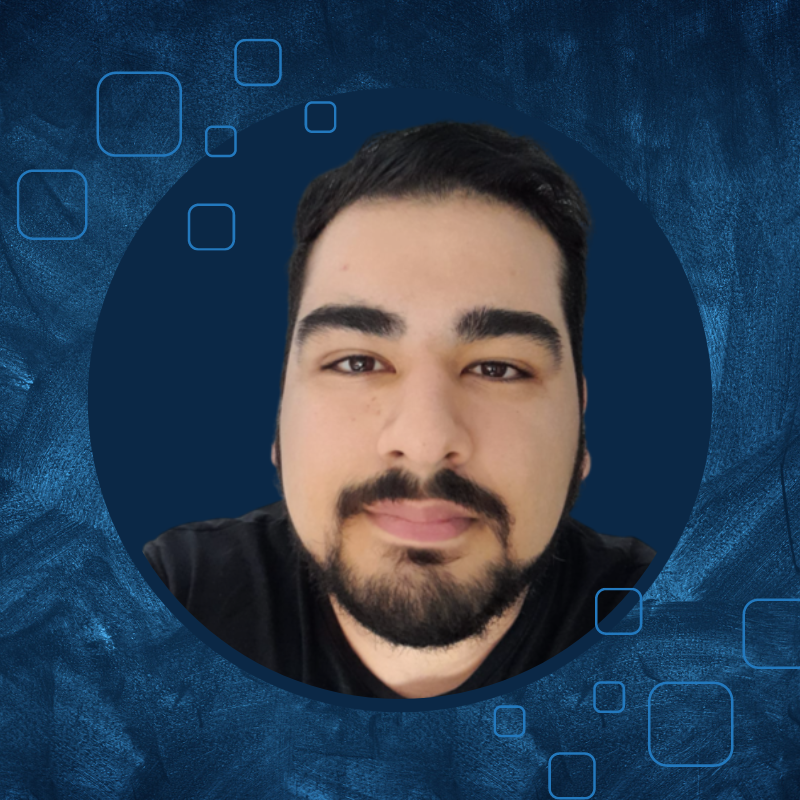
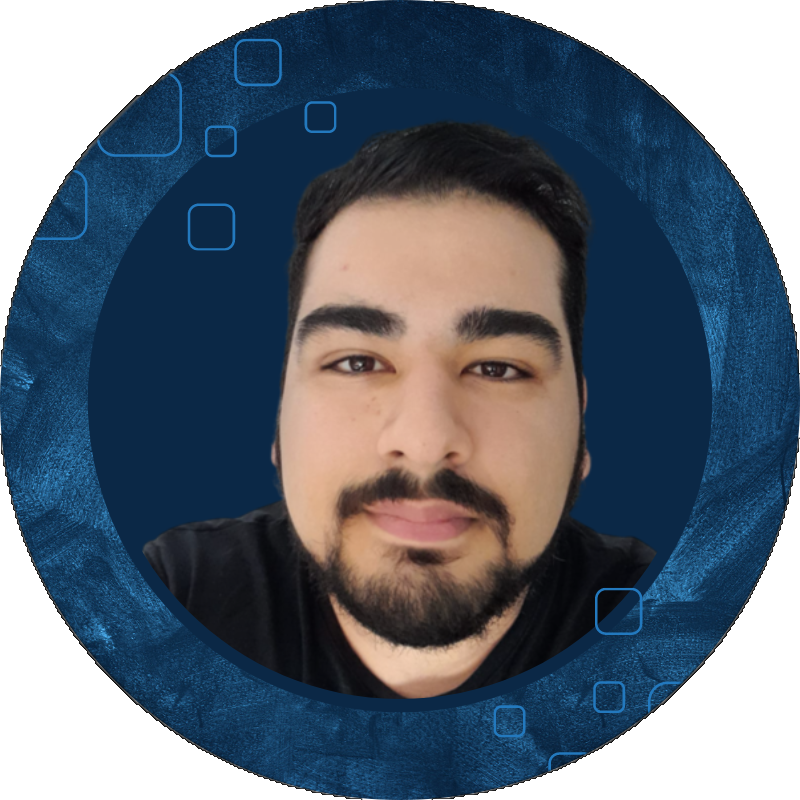
arreglo de imagen y more pages

diff --git a/templates/me.html b/templates/me.html
@@ -1,0 +1,22 @@
+<!DOCTYPE html>
+<html lang="en">
+<head>
+    <meta charset="UTF-8">
+    <meta name="viewport" content="width=device-width, initial-scale=1.0">
+    <link rel="shortcut icon" href="../img/Logo.ico" type="image/x-icon">
+    <link rel="stylesheet" href="../css/style.css">
+    <title>About me</title>
+</head>
+<body>
+    <header>
+        <a href="../index.html" class="logo">Port<span>folio</span></a>
+        <div class="navbar">
+            <ul>
+                <li><a href="./me.html">Sobre Mi</a></li>
+                <li><a href="./proyects.html">Proyectos</a></li>
+                <li><a href="./contact.html">Contacto</a></li>
+            </ul>
+        </div>
+    </header>
+</body>
+</html>

diff --git a/templates/proyects.html b/templates/proyects.html
@@ -1,0 +1,22 @@
+<!DOCTYPE html>
+<html lang="en">
+<head>
+    <meta charset="UTF-8">
+    <meta name="viewport" content="width=device-width, initial-scale=1.0">
+    <link rel="shortcut icon" href="../img/Logo.ico" type="image/x-icon">
+    <link rel="stylesheet" href="../css/style.css">
+    <title>Proyects</title>
+</head>
+<body>
+    <header>
+        <a href="../index.html" class="logo">Port<span>folio</span></a>
+        <div class="navbar">
+            <ul>
+                <li><a href="./me.html">Sobre Mi</a></li>
+                <li><a href="./proyects.html">Proyectos</a></li>
+                <li><a href="./contact.html">Contacto</a></li>
+            </ul>
+        </div>
+    </header>
+</body>
+</html>

diff --git a/templates/contact.html b/templates/contact.html
@@ -1,0 +1,22 @@
+<!DOCTYPE html>
+<html lang="en">
+<head>
+    <meta charset="UTF-8">
+    <meta name="viewport" content="width=device-width, initial-scale=1.0">
+    <link rel="shortcut icon" href="../img/Logo.ico" type="image/x-icon">
+    <link rel="stylesheet" href="../css/style.css">
+    <title>Contact</title>
+</head>
+<body>
+    <header>
+        <a href="../index.html" class="logo">Port<span>folio</span></a>
+        <div class="navbar">
+            <ul>
+                <li><a href="./me.html">Sobre Mi</a></li>
+                <li><a href="./proyects.html">Proyectos</a></li>
+                <li><a href="./contact.html">Contacto</a></li>
+            </ul>
+        </div>
+    </header>
+</body>
+</html>

diff --git a/css/style.css b/css/style.css
@@ -28,6 +28,8 @@ header{
 }
 
 .navbar ul{
+    position: relative; 
+    z-index: 9999;
     flex: 1;
     text-align: right;
 }
@@ -41,6 +43,12 @@ header{
 a{
     text-decoration: none;
     color: #fff;
+    font-size: 20px;
+}
+
+a:hover{
+    text-decoration: none;
+    color: #020146;
     font-size: 20px;
 }
 
@@ -73,10 +81,12 @@ span{
     margin-top: 20px;
     border: 2px solid #e7e00d;
     transition: 0.5s;
+    color: #fff;
 }
 
 .btn:hover{
     transform: translateY(-5px);
+    color: #fff;
 }
 
 .img{
@@ -89,7 +99,6 @@ span{
     width: 400px;
     height: auto;
     margin-top: 80px;
-    border-radius: 50%;
     overflow: hidden;
     object-fit: cover;
 }

diff --git a/index.html b/index.html
@@ -15,9 +15,9 @@
         <a href="" class="logo">Port<span>folio</span></a>
         <div class="navbar">
             <ul>
-                <li><a href="">Sobre Mi</a></li>
-                <li><a href="">Proyectos</a></li>
-                <li><a href="">Contacto</a></li>
+                <li><a href="./templates/me.html">Sobre Mi</a></li>
+                <li><a href="./templates/proyects.html">Proyectos</a></li>
+                <li><a href="./templates/contact.html">Contacto</a></li>
             </ul>
         </div>
     </header>
